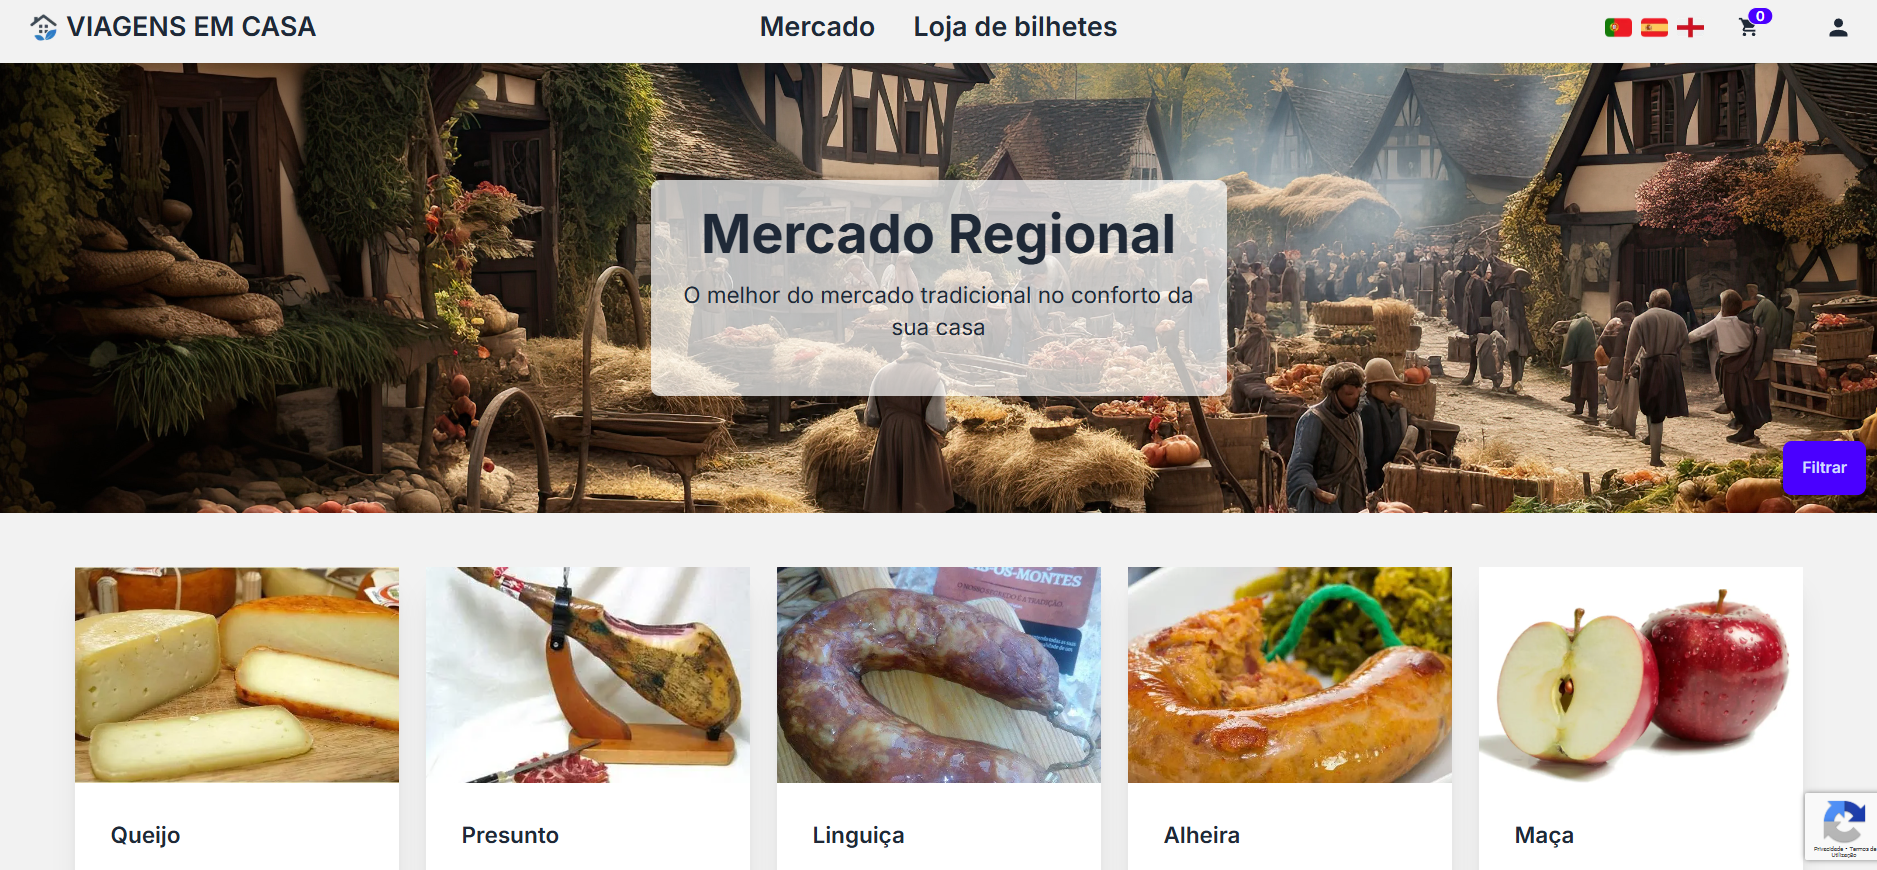
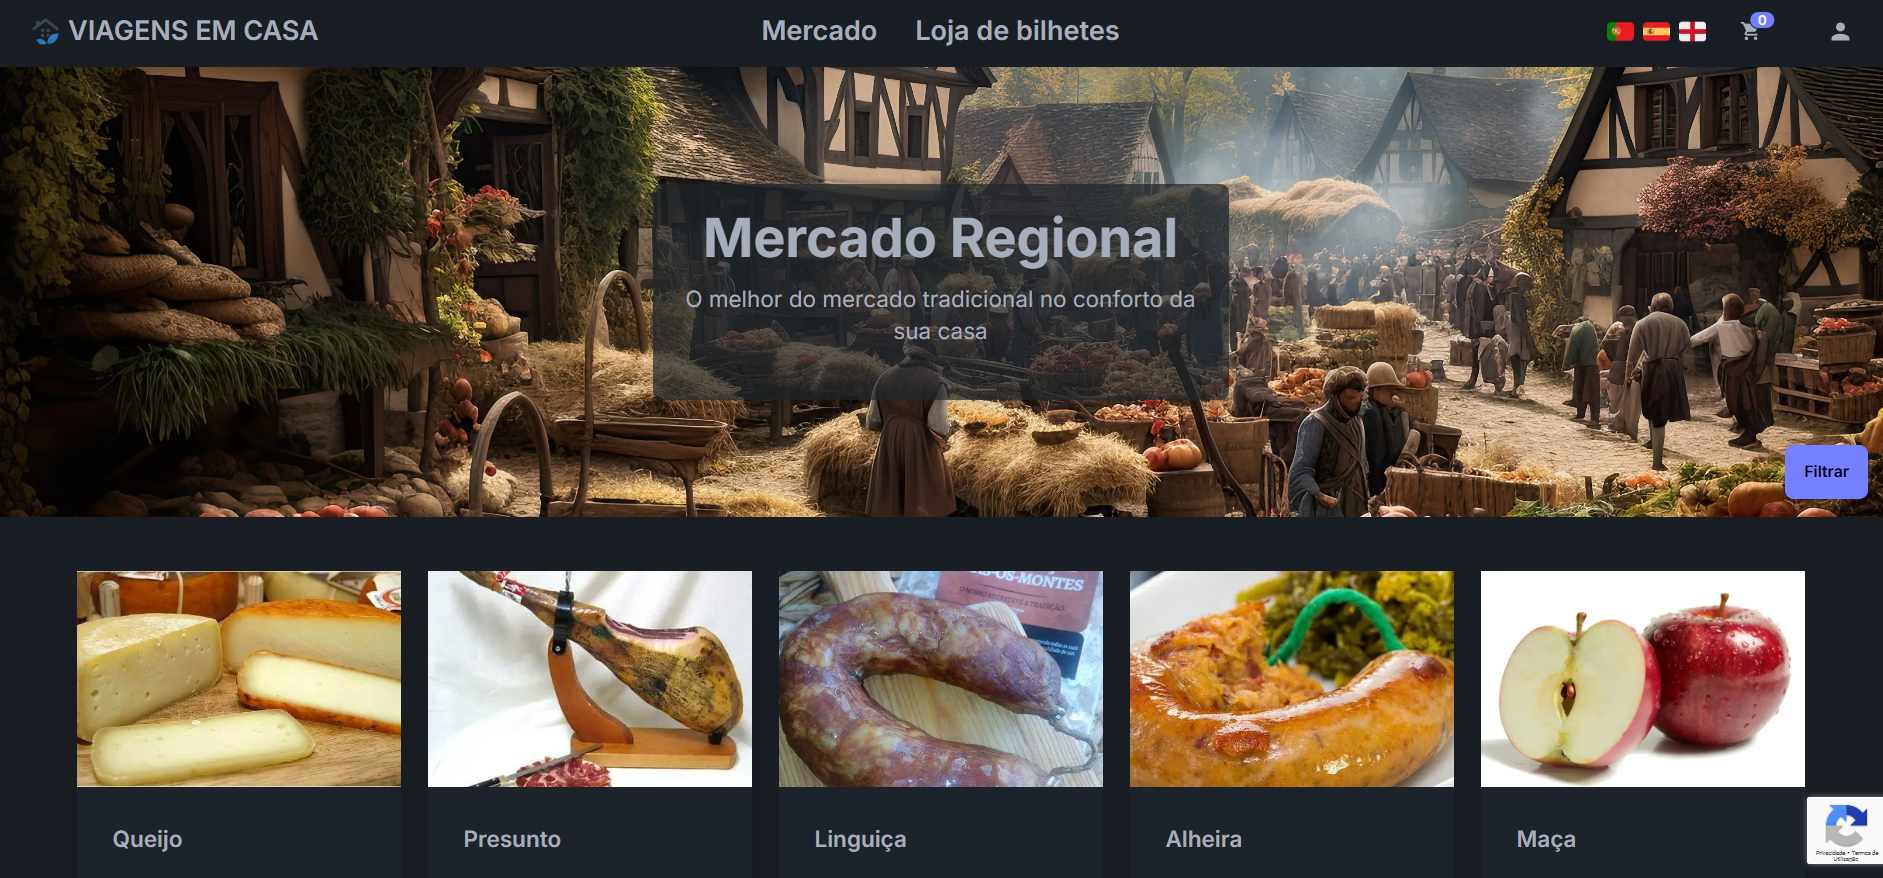
implementação da alterancia de imagens de vaigens em casa

diff --git a/src/components/Projetos/ViagensEmCasa/ViagensEmCasapage.jsx b/src/components/Projetos/ViagensEmCasa/ViagensEmCasapage.jsx
@@ -1,8 +1,27 @@
-import React from "react";
+import React, { useEffect, useState } from "react";
 import { FaPlane, FaUtensils, FaTicketAlt, FaHome } from "react-icons/fa";
 import { Link } from "react-router-dom";
+import MercadoLight from "../../../assets/ViagensEmCasa/Mercado/MercadoLight.png";
+import MercadoDark from "../../../assets/ViagensEmCasa/Mercado/MercadoDark.png";
+import BilheteiraLight from "../../../assets/ViagensEmCasa/Bilheteria/BilheteiraLight.png";
+import BilheteiraDark from "../../../assets/ViagensEmCasa/Bilheteria/BilheteiraDark.png";
 
 export default function ViagensEmCasa() {
+  const [isDarkMode, setIsDarkMode] = useState(false);
+
+  useEffect(() => {
+    const html = document.documentElement;
+    setIsDarkMode(html.classList.contains("dark"));
+
+    const observer = new MutationObserver(() => {
+      setIsDarkMode(html.classList.contains("dark"));
+    });
+
+    observer.observe(html, { attributes: true, attributeFilter: ["class"] });
+
+    return () => observer.disconnect();
+  }, []);
+
   return (
     <div className="min-h-screen flex flex-col items-center justify-start pt-28 px-4 text-center bg-white dark:bg-gray-900 text-black dark:text-white transition-colors duration-500 ">
       <h1 className="text-4xl font-bold mb-4 flex items-center gap-2 text-blue-700 dark:text-cyan-400">
@@ -17,12 +36,18 @@ export default function ViagensEmCasa() {
         seção de bilheteira virtual com venda de entradas para museus e
         atividades culturais.
       </p>
+
       <div className="grid grid-cols-1 md:grid-cols-2 gap-6 w-full max-w-4xl mt-8">
         <Link
           to="/projetos/viagens/mercado"
           className="p-6 border rounded-lg shadow-md dark:border-gray-700 dark:bg-gray-800 hover:shadow-xl transition"
         >
-          <div className="flex items-center gap-2 text-xl font-semibold mb-2 text-left">
+          <img
+            src={isDarkMode ? MercadoDark : MercadoLight}
+            alt="Mercado"
+            className="w-full h-48 object-cover rounded mb-4"
+          />
+          <div className=" text-xl font-semibold mb-2 text-left flex items-center gap-2 text-blue-700 dark:text-cyan-400">
             <FaUtensils />
             Mercado de Comidas Regionais
           </div>
@@ -31,11 +56,17 @@ export default function ViagensEmCasa() {
             entrega direta ao consumidor.
           </p>
         </Link>
+
         <Link
           to="/projetos/viagens/bilheteira"
           className="p-6 border rounded-lg shadow-md dark:border-gray-700 dark:bg-gray-800 hover:shadow-xl transition"
         >
-          <div className="flex items-center gap-2 text-xl font-semibold mb-2 text-left">
+          <img
+            src={isDarkMode ? BilheteiraDark : BilheteiraLight}
+            alt="Bilheteira"
+            className="w-full h-48 object-cover rounded mb-4"
+          />
+          <div className="flex items-center gap-2 text-xl font-semibold mb-2 text-left flex items-center gap-2 text-blue-700 dark:text-cyan-400">
             <FaTicketAlt />
             Bilheteira de Museus
           </div>

diff --git a/src/components/Projetos/Projetospage.jsx b/src/components/Projetos/Projetospage.jsx
@@ -4,9 +4,7 @@ import HomeDark from "../../assets/ViagensEmCasa/Mercado/HomeDark.png";
 import HomeLight from "../../assets/ViagensEmCasa/Mercado/HomeLight.png";
 import LoginLight from "../../assets/Pfire/LoginLight.png";
 import LoginDark from "../../assets/Pfire/LoginDark.png";
-import { useEffect, useState,useMemo } from "react";
-
-
+import { useEffect, useState, useMemo } from "react";
 
 import {
   FaReact,
@@ -26,42 +24,46 @@ import {
 export default function ProjetosPage() {
   const [isDarkMode, setIsDarkMode] = useState(false);
 
-useEffect(() => {
-  const checkTheme = () => {
-    const html = document.documentElement;
-    setIsDarkMode(html.classList.contains("dark"));
-  };
+  useEffect(() => {
+    const checkTheme = () => {
+      const html = document.documentElement;
+      setIsDarkMode(html.classList.contains("dark"));
+    };
 
-  checkTheme(); // Verifica imediatamente
+    checkTheme(); // Verifica imediatamente
 
-  const observer = new MutationObserver(checkTheme);
-  observer.observe(document.documentElement, {
-    attributes: true,
-    attributeFilter: ["class"],
-  });
+    const observer = new MutationObserver(checkTheme);
+    observer.observe(document.documentElement, {
+      attributes: true,
+      attributeFilter: ["class"],
+    });
 
-  return () => observer.disconnect();
-}, []);
+    return () => observer.disconnect();
+  }, []);
 
-
- const projetos = useMemo(() => [
-  {
-    titulo: "Viagens em Casa",
-    descricao:
-      "E-commerce de comidas regionais e bilheteira cultural, desenvolvido com Next.js.",
-    rota: "/projetos/viagens",
-    imagem: isDarkMode ? HomeDark : HomeLight,
-    techs: ["Next.js", "Tailwind"],
-    icone: <FaPlane className="text-2xl text-blue-700 dark:text-cyan-400" />,
-  },
-  {
-    titulo: "Pfire",
-    descricao:
-      "Aplicação de gestão e visualização de dados usando Tailwind e APIs externas.",
-    rota: "/projetos/pfire",
-    imagem: isDarkMode ? LoginDark : LoginLight,
-  },
-], [isDarkMode]);
+  const projetos = useMemo(
+    () => [
+      {
+        titulo: "Viagens em Casa",
+        descricao:
+          "E-commerce de comidas regionais e bilheteira cultural, desenvolvido com Next.js.",
+        rota: "/projetos/viagens",
+        imagem: isDarkMode ? HomeDark : HomeLight,
+        techs: ["Next.js", "Tailwind"],
+        icone: (
+          <FaPlane className="text-2xl text-blue-700 dark:text-cyan-400" />
+        ),
+      },
+      {
+        titulo: "Pfire",
+        descricao:
+          "Aplicação de gestão e visualização de dados usando Tailwind e APIs externas.",
+        rota: "/projetos/pfire",
+        imagem: isDarkMode ? LoginDark : LoginLight,
+      },
+    ],
+    [isDarkMode],
+  );
 
   const techIcons = {
     HTML5: <FaHtml5 className="text-orange-500" />,
